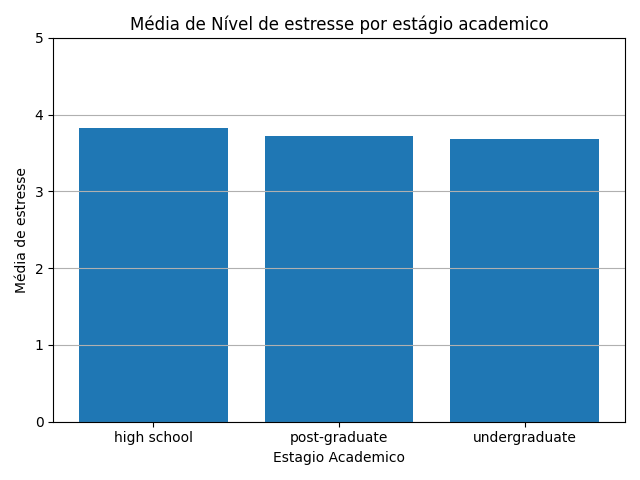
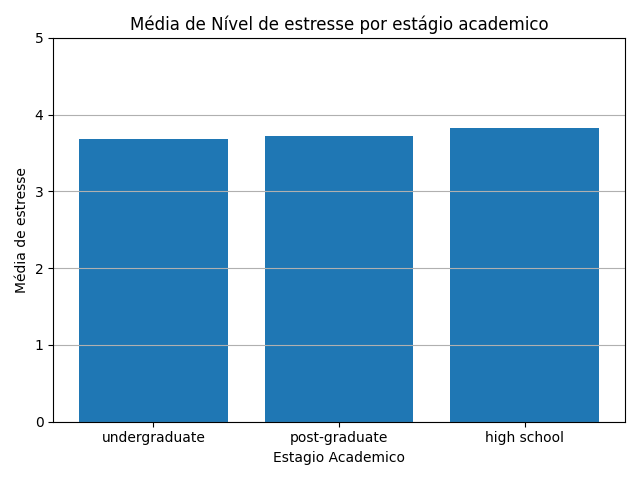
Finalizando seção 5.1 e iniciando 5.2

diff --git a/Semana_3/Atividade-Exploração_e_Análise_Inicial_de_Dados_Reais.py b/Semana_3/Atividade-Exploração_e_Análise_Inicial_de_Dados_Reais.py
@@ -150,7 +150,7 @@ print("\n", "---"*15, "\n")
 # Seção 5:
 # Seção 5.1:
 # Análise 1:
-# 1. Avaliar nivel de estresse academico relatado, por nivel academico, através de análise análitica
+# Objetivo: Avaliar nivel de estresse academico relatado, por nivel academico, através de análise análitica
 # Saida esperada: Vou montar um gráfico de colunas sobre o nível de estresse relatado por cada nível academico e sua distribuição, e além disso um gráfico mostrando a média de cada área.
 
 # Seção 5.1.1 - Analises de tendencia central e dispersão
@@ -238,7 +238,7 @@ plt.savefig(r'C:\Users\victo\Python_Senai390\Semana_3\distribuicao_estresse_pos_
 plt.clf()
 
 # Seção 5.1.3.1 - Grafico geral dos 3 niveis academicos
-media_estresse_niveis = df_final.groupby('academic_stage')['stress'].mean().sort_values(ascending=False)
+media_estresse_niveis = df_final.groupby('academic_stage')['stress'].mean().sort_values(ascending=True)
 
 '''
 
@@ -259,7 +259,7 @@ plt.tight_layout()
 plt.savefig(r'C:\Users\victo\Python_Senai390\Semana_3\media_estresse_niveis.png')
 plt.clf()
 
-# Seção 5.1.3.1.2 - Grafico sem zoom
+# Seção 5.1.3.1.2 - Grafico com zoom
 plt.bar(media_estresse_niveis.index, media_estresse_niveis.values)
 
 #Embelezamento do grafico:
@@ -268,7 +268,12 @@ plt.xlabel("Estagio Academico")
 plt.ylabel("Média de estresse")
 plt.grid(axis='y')
 plt.ylim(3, 4)
-plt.yticks([3.1, 3.2, 3.3, 3.4, 3.5, 3.6, 3.7, 3.8, 3.9, 4.0])
+plt.yticks([3.0, 3.1, 3.2, 3.3, 3.4, 3.5, 3.6, 3.7, 3.8, 3.9, 4.0])
 plt.tight_layout() 
 plt.savefig(r'C:\Users\victo\Python_Senai390\Semana_3\media_estresse_niveis_zoom.png')
 plt.clf()
+
+# Seção 5.2:
+# Análise 2:
+# Objetivo: Avaliar se o stress academico relatado tem relação com a competição academica relatada. (❌)
+# Saida esperada: Vou montar um gráfico de dispersão para analisar se há alguma relação entre os 2
